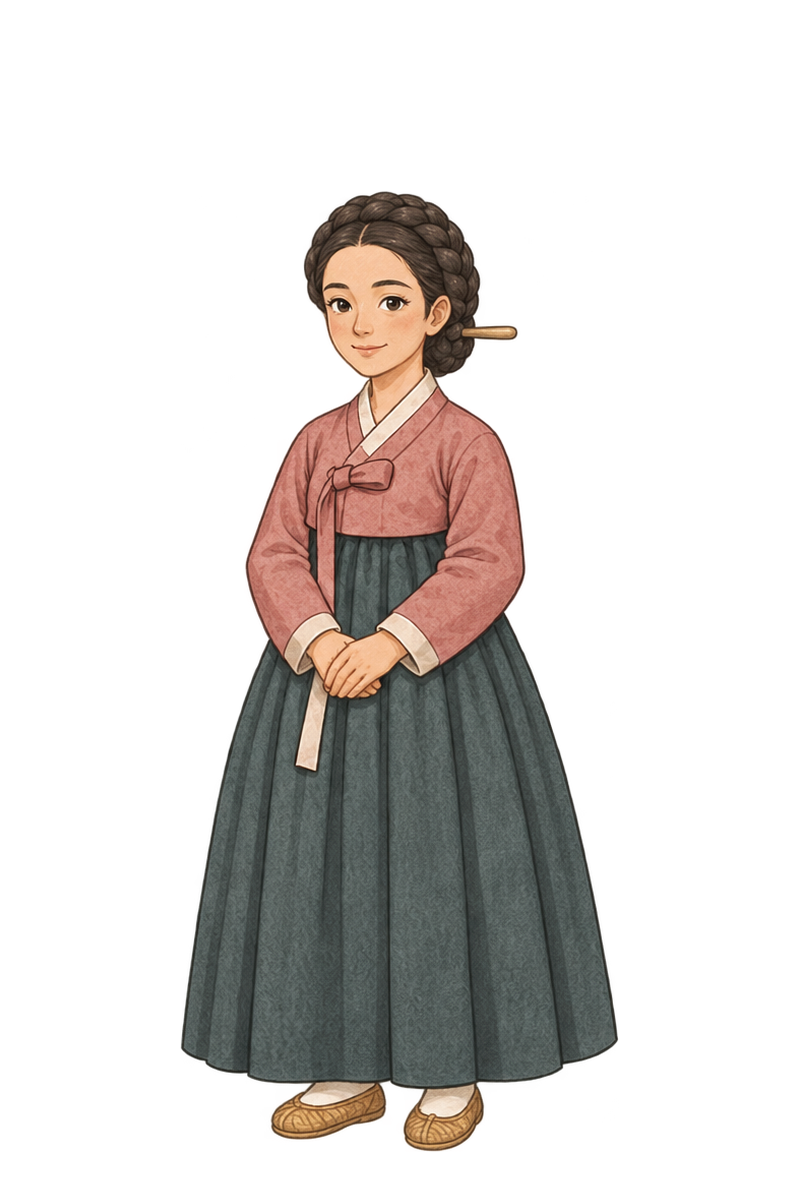
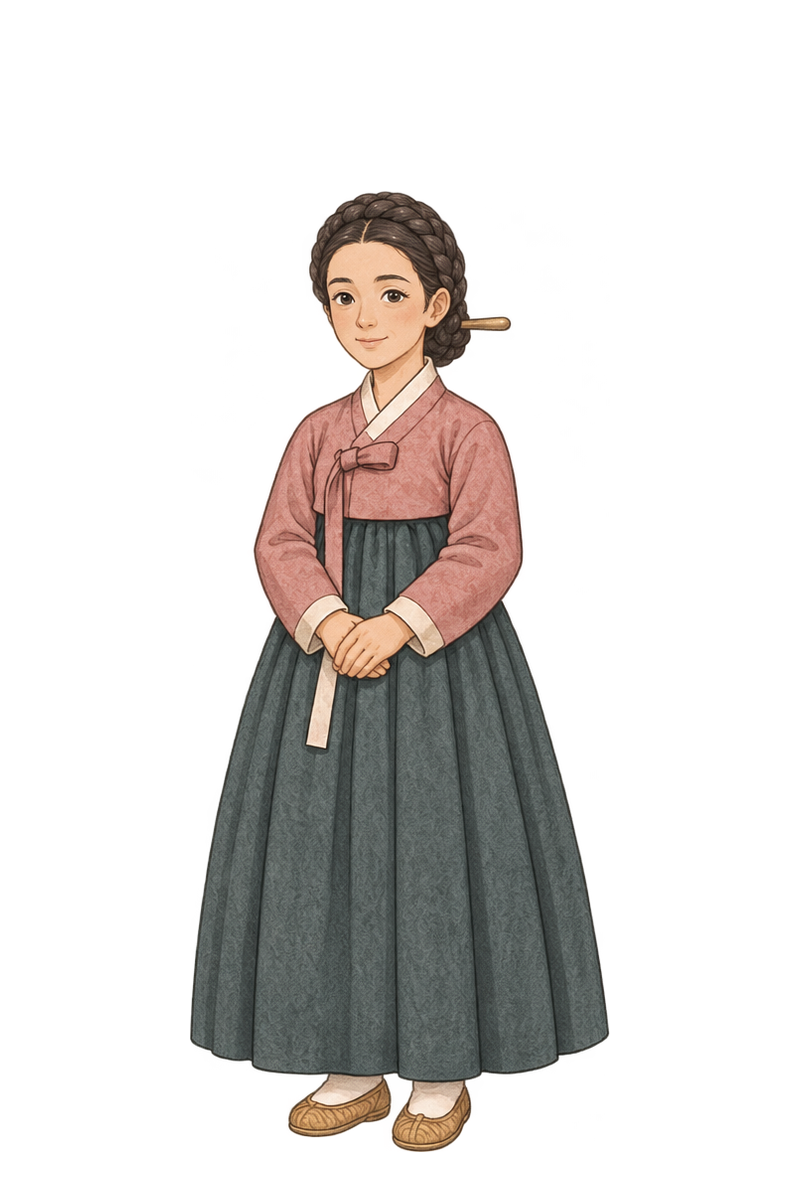
feat: use approved Bakssi portraits and finish Work handoff

Changed region(s): [[0.2188, 0.1542, 0.7812, 0.9867], [0.25, 0.6475, 0.2812, 0.7708], [0.3125, 0.6475, 0.3438, 0.6783]]

diff --git a/apps/web/lib/provided-worksheets.ts b/apps/web/lib/provided-worksheets.ts
@@ -190,6 +190,46 @@ const SHEETS:Record<BuiltinWorkId,Record<Format,readonly [Sheet,Sheet]>>={
    ]},
   ],
  },
+
+ bakssi:{
+  original:[
+   {focus:'story',title:'박씨전 줄거리와 인물',description:'박씨가 피화당에서 한 일이 전란 때 어떻게 이어졌는지 살펴봐요.',questions:[
+    '박씨는 왜 뒤뜰에 집을 마련해 달라고 했나요?',
+    '야윈 말을 돌본 일이 나중에 피란민들에게 어떤 도움이 되었나요?',
+    '박씨가 경고했을 때 조정은 어떻게 답했나요? 전쟁이 끝난 뒤 임금은 어떻게 했나요?',
+   ]},
+   {focus:'thinking',title:'박씨전 생각 넓히기',description:'혼례 날과 눈이 멎은 뒤 시백이 다른 행동을 하는 까닭을 생각해요.',questions:[
+    '혼례 날 시백은 어떻게 행동했나요? 전쟁 뒤의 시백과 비교해 보세요.',
+    '계화가 한 일 가운데 피화당 사람들에게 가장 중요했다고 생각하는 일은 무엇인가요? 까닭을 써 보세요.',
+    '임금이 박씨의 경고를 들었다면 어떤 행동부터 했으면 좋았을까요?',
+   ]},
+  ],
+  knolstory:[
+   {focus:'branch-choice',title:'박씨전 놀스토리 · 내가 고른 길',description:'박씨가 되어 내린 세 가지 결정과 한 가지 결과를 떠올려요.',questions:[
+    '말값으로 무엇부터 마련하기로 했나요? 그 일에 누가 손을 보탰나요?',
+    '박 처사가 찾아왔을 때 어떤 대답을 골랐나요? 이시백은 그 뒤 어떻게 찾아왔나요?',
+    '전란 속에서 누구에게 먼저 다가갔나요? 그 선택으로 달라진 결과 한 가지를 써 보세요.',
+   ]},
+   {focus:'branch-compare',title:'박씨전 놀스토리 · 두 갈래 비교',description:'허물에 대해 다른 대답을 한 두 갈래를 읽고 견주어 봐요.',questions:[
+    '허물을 벗는 길과 같은 얼굴로 사는 길에서 계화와 시백은 박씨를 어떻게 대했나요?',
+    '두 길에서 기홍대를 만난 일을 견주어 보세요. 어떤 단서가 기홍대의 정체를 드러냈나요?',
+    '내가 읽은 두 결말에서 피화당 밖의 사람들은 어떤 도움을 받았나요?',
+   ]},
+  ],
+  shortstory:[
+   {focus:'pictures',title:'박씨전 숏스토리 · 그림 읽기',description:'그림이 이어지는 쪽을 찾아 소품과 인물의 행동을 살펴봐요.',questions:[
+    '3쪽과 7쪽의 여물통과 쌀자루를 찾아보세요. 두 그림의 계절과 계화가 하는 일은 어떻게 달라졌나요?',
+    '8쪽에서 문 안과 문 밖은 어떤 색과 모습으로 그려졌나요?',
+    '5쪽 박씨의 헌 신과 마지막 쪽의 신을 견주어 보세요. 마지막에 박씨가 신발을 신지 않고 달려간 까닭은 무엇일까요?',
+   ]},
+   {focus:'rewrite',title:'박씨전 숏스토리 · 한 쪽 바꿔 쓰기',description:'‘문 하나를 사이에 두고’를 언니나 동생의 눈으로 다시 써요.',questions:[
+    '8쪽에서 이야기할 사람을 언니와 동생 중 하나로 골라 보세요.',
+    '고른 인물이 문 안에서 보고 들은 것, 하고 싶었던 일을 짧게 써 보세요.',
+    '내가 쓴 내용이 9쪽의 ‘길이 열렸어요’와 어떻게 이어지는지 설명해 보세요.',
+   ]},
+  ],
+ },
+
 };
 
 const FORMAT_ORDER:readonly Format[]=['original','knolstory','shortstory'];

diff --git a/tests/e2e/library-first-screen.spec.ts b/tests/e2e/library-first-screen.spec.ts
@@ -126,12 +126,12 @@ test('편집하기 on a built-in book asks for the edition in place and keeps th
  await page.keyboard.press('Escape');await expect(dialog).toHaveCount(0);
 });
 
-test('책 소개 lands on the four stories and returns to the library',async({page})=>{
+test('책 소개 lands on the provided stories and returns to the library',async({page})=>{
  await open(page,320,700);
  await page.getByRole('button',{name:'책 소개',exact:true}).click();
- const list=page.getByRole('region',{name:'놀스토리의 네 이야기'});
- await expect(list.getByRole('heading',{name:'놀스토리의 네 이야기'})).toBeFocused();
- await expect(list.getByRole('listitem')).toHaveCount(4);
+ const list=page.getByRole('region',{name:'놀스토리의 이야기'});
+ await expect(list.getByRole('heading',{name:'놀스토리의 이야기'})).toBeFocused();
+ await expect(list.getByRole('listitem')).toHaveCount(5);
  const box=(await list.boundingBox())!;expect(box.y).toBeLessThan(700);
  await list.getByRole('button',{name:'서재로 돌아가기',exact:true}).click();
  await expect(library(page)).toBeVisible();

diff --git a/tests/e2e/entry-cover.spec.ts b/tests/e2e/entry-cover.spec.ts
@@ -13,7 +13,7 @@ test('fresh browser entry introduces existing books and explicit navigation ente
  await expect(intro.locator('[data-intro-poster]')).toHaveCount(1);await expect(intro.getByRole('navigation',{name:'놀스토리 메인 메뉴'}).getByRole('button')).toHaveCount(2);
  await expect(page.getByTestId('story-runtime-frame')).toHaveCount(0);
  // A first visit shows the title screen alone; the four-story list belongs to the library's ‘책 소개’.
- await expect(page.getByRole('region',{name:'놀스토리의 네 이야기'})).toHaveCount(0);
+ await expect(page.getByRole('region',{name:'놀스토리의 이야기'})).toHaveCount(0);
  await page.getByRole('button',{name:'서재로 가기',exact:true}).click();
  await expect(page.getByRole('main',{name:'놀스토리 서재'})).toBeVisible();
  await page.goto('/');await expect(intro).toBeVisible();

diff --git a/scripts/prepare-bakssi-assets.py b/scripts/prepare-bakssi-assets.py
@@ -227,7 +227,7 @@ def check_emotions(rows):
             raise ValueError(f'{identity}: each expression must use a distinct reviewed image')
 
 
-def prepare(root=ROOT, check=False, complete=False, require_emotions=False):
+def prepare(root=ROOT, check=False, complete=False, require_emotions=False, replace_drafts=()):
     registry = root / REGISTRY
     catalog_path = registry / 'catalog.json'
     sizes_path = registry / 'background-sizes.json'
@@ -251,6 +251,17 @@ def prepare(root=ROOT, check=False, complete=False, require_emotions=False):
     prior = {row['id']: row for row in load(receipt_path)['assets']} if receipt_path.exists() else {}
     if not (set(prior_assets) | set(prior)).issubset(ids):
         raise ValueError('A registered Bakssi asset recipe disappeared.')
+    replacements = set(replace_drafts)
+    if replacements and (check or not replacements.issubset(prior_assets.keys() & prior.keys())):
+        raise ValueError('Draft replacement requires exact IDs already present in both registration files.')
+    for asset_id in replacements:
+        previous = prior[asset_id]
+        expected_output = PUBLIC / DELIVERY / (asset_id + '.webp')
+        output = root / expected_output
+        if (previous['output'] != expected_output.as_posix() or not output.is_file()
+                or digest(output.read_bytes()) != previous['outputSha256']
+                or prior_assets[asset_id]['revision'] != previous['outputSha256']):
+            raise ValueError(f'{asset_id}: prior output must match the registered draft')
     catalogue = []
     receipts = []
     files = {}
@@ -265,16 +276,16 @@ def prepare(root=ROOT, check=False, complete=False, require_emotions=False):
             if (complete and not optional_emotion) or asset_id in prior_assets or asset_id in prior:
                 raise ValueError(f'{asset_id}: source PNG missing')
             continue
-        if asset_id in prior and digest(source.read_bytes()) != prior[asset_id]['sourceSha256']:
+        if asset_id in prior and asset_id not in replacements and digest(source.read_bytes()) != prior[asset_id]['sourceSha256']:
             raise ValueError(f'{asset_id}: source changed; review and register a new versioned asset')
         asset, receipt, contents = prepare_one(root, entry, catalogue_by_id, prompt_evidence)
         catalogue_by_id[asset_id] = asset
-        if asset_id in prior_assets and prior_assets[asset_id]['revision'] != asset['revision']:
+        if asset_id in prior_assets and asset_id not in replacements and prior_assets[asset_id]['revision'] != asset['revision']:
             raise ValueError(f'{asset_id}: registered derivative changed; verify the source and encoder')
         catalogue.append(asset)
         receipts.append(receipt)
         output = root / receipt['output']
-        if output.is_file() and output.read_bytes() != contents:
+        if asset_id not in replacements and output.is_file() and output.read_bytes() != contents:
             raise ValueError(f'{asset_id}: output differs; recover exact asset bytes')
         files[output] = contents
     if not catalogue:
@@ -329,9 +340,12 @@ if __name__ == '__main__':
     parser.add_argument('--check', action='store_true')
     parser.add_argument('--complete', action='store_true', help='Require every planned base artwork.')
     parser.add_argument('--require-emotions', action='store_true', help='Require five distinct expressions for each identity.')
+    parser.add_argument('--replace-draft', action='append', default=[], metavar='ASSET_ID',
+                        help='Replace a reviewed asset on the unpublished production branch only.')
     args = parser.parse_args()
     try:
-        count = prepare(check=args.check, complete=args.complete, require_emotions=args.require_emotions)
+        count = prepare(check=args.check, complete=args.complete, require_emotions=args.require_emotions,
+                        replace_drafts=args.replace_draft)
     except (ValueError, OSError, KeyError) as error:
         raise SystemExit(str(error))
     print(f'Bakssi artwork: {count} registered assets.')

diff --git a/scripts/tests/test_bakssi_assets.py b/scripts/tests/test_bakssi_assets.py
@@ -107,3 +107,19 @@ class BakssiAssetsTest(unittest.TestCase):
         for check in [False, True]:
             with self.assertRaisesRegex(ValueError, 'source changed'):
                 self.pipeline.prepare(self.root, check=check)
+
+    def test_replaces_only_requested_draft_after_checking_the_prior_output(self):
+        self.record_recipe()
+        self.draw_sources()
+        self.pipeline.prepare(self.root)
+        source = self.art / (self.page_id + '.png')
+        output = self.root / 'apps/web/public/assets/bakssi-v1' / (self.page_id + '.webp')
+        prior = output.read_bytes()
+        Image.new('RGB', (512, 288), 'green').save(source)
+        output.write_bytes(b'corrupt derivative')
+        with self.assertRaisesRegex(ValueError, 'prior output'):
+            self.pipeline.prepare(self.root, replace_drafts=[self.page_id])
+        output.write_bytes(prior)
+        self.pipeline.prepare(self.root, replace_drafts=[self.page_id])
+        self.assertNotEqual(output.read_bytes(), prior)
+        self.assertEqual(self.pipeline.prepare(self.root, check=True), 3)

diff --git a/docs/reference/bakssi/art-production.md b/docs/reference/bakssi/art-production.md
@@ -4,7 +4,7 @@
 
 - 선녀와 나무꾼 2쪽에서 밝은 햇빛, 숲과 산의 깊이, 옹고집전 2쪽에서 기와·눈·나무 문, 흥부와 놀부 3쪽에서 얼굴·손·옷감·종이에 번진 색을 본다. 저장소 Asset ID는 각각 `seonnyeo.scene.shortstory-classic-02`, `onggojib.scene.shortstory-classic-02`, `heungbu.scene.shortstory-classic-03`이다. 준비된 공용 파일 위치는 `apps/web/public/assets/legacy-18da4fc/<id>.webp`다. 캐릭터 키와 비례는 `heungbu.character.wife-heungbu`, `heungbu.character.heungbu-young` 및 레시피별 기준을 확인한다. 참조 인물과 장면을 복제하지 않고 색과 표현 방식, 치수 기준만 가져온다.
 - 세밀한 갈색 먹선, 한지에 스민 수채·과슈, 조선 복식의 넓은 옷주름, 마음이 보이는 손과 눈. 색이 필요한 곳은 겨울 밤의 청보라와 등불의 옅은 황금빛처럼 장소의 이유로 정한다. 사진, 3D, 현대 물건, 생성 이미지 안의 글자와 워터마크는 피한다.
-- 허물 전후의 박씨는 **크고 분명한 외형 차이**가 기준이다. 전에는 넓고 삐뚤어진 무거운 턱, 서로 다른 높이의 두꺼운 눈썹과 작은 눈, 넓적하고 큰 코, 크게 비대칭인 입으로 단번에 못생겨 보이게 한다. 허물 뒤에는 갸름하고 대칭이 또렷한 얼굴, 고른 눈썹, 맑은 큰 눈과 작은 곧은 코로 확연히 아름다운 인상을 준다. 표정과 조명만 바꾸면 다시 만든다. 전후 모두 차분하고 지혜로운 사람으로 연기한다.
+- 2026-11-28 사용자가 고른 [박씨 얼굴 기준](bakssi-face-comparison.jpg)을 그대로 따른다. 허물 전에는 넓고 살짝 비대칭인 턱, 두꺼운 눈썹과 무거운 눈꺼풀을 유지한다. 허물 뒤에는 조금 더 가는 턱선과 또렷한 눈, 정돈된 눈썹과 이목구비로 바뀐다. 얼굴의 대비와 인상은 기준 그림에서 정해졌으므로 코·입·턱을 더 부풀리거나 새 얼굴로 해석하지 않는다. 변신 전후 모두 차분하고 지혜로운 사람으로 연기한다.
 - 허물 전후는 옅은 나무 비녀와 낮게 땋아 올린 검은 쪽머리, 흰 동정이 있는 말린 장밋빛 저고리와 짙은 청록 치마, 같은 키·어깨·몸통·손으로 연결한다. 혼례에는 같은 허물 전 얼굴에 붉은 원삼과 족두리를 더한다. 박씨 뒤의 배경과 주변 조명을 같게 두고 얼굴만 비교한다.
 - 계화는 황토빛 저고리, 붉은 흙빛 치마, 긴 댕기머리와 살구빛 끝. 시백은 쪽빛 도포와 갓, 혼례는 같은 눈·턱을 유지한 청색 관복과 사모. 어린 동생은 겨자색 노란 댕기와 쑥빛 저고리, 언니는 청회색 저고리다. 그림책과 원작·놀스토리에서 이 조합을 이어 쓴다.
 - 피화당은 정면에서 볼 때 왼쪽 감나무, 뒤쪽의 낮은 마루와 기와집, 오른쪽 초가 창고와 여물통, 손잡이를 낮춘 문이 반복된다. 낮 배경 하나를 같은 구도의 밤·비·눈·봄으로 바꿔서 쓰고, 같은 장면의 있던 문이 사라지거나 지붕·창고 위치가 뒤집히면 다시 맞춘다.
@@ -23,11 +23,12 @@
 1. 파일의 쓰임과 그림이 일치하는지 본다. 그림책과 표지는 인물 포함 삽화다. 재생 배경은 별도의 인물을 올릴 자리를 확보한다. 이미지 속 사람, 글씨, 잘린 발이나 그림자가 잘못 들어간 파일은 수정한다.
 2. 눈에 잘 띄는 인물 2~3명과 써야 할 장소의 기준 그림을 먼저 승인한다. 승인본과 같은 인물은 한 번에 표정이나 행동 한 가지를 바꾸면서 만든다. 접지 시트를 쓴 경우 잘려 나간 신발·갓·이웃 칸의 투명 잔상이 없는지 본 후 PNG를 분리한다.
 3. 파일을 `assets/source/bakssi/<asset-id>.png`에 둔다. 레시피와 기존 등록 ID가 맞는지 확인하고 `python3 scripts/prepare-bakssi-assets.py`를 실행한다. 결과는 `apps/web/public/assets/bakssi-v1/` 및 등록표에 들어간다. 장면과 해시·차원을 대조한 뒤 원본·WebP·등록 정보를 함께 커밋한다.
-4. 파생 그림에서 참조한 Asset ID와 생성 도구, 도구에 준 문장, 결과에서 어떤 장면을 승인했는지 이 문서에 덧붙인다. 공개 이야기에서 쓸 수 있는지와 원본 그림의 독립 배포 여부를 각각 본다. 로컬 변수·생성 캐시·개인 사진은 저장소에 넣지 않는다.
+4. 공개 전 제작 브랜치의 이미 등록한 시안을 바꿀 때는 기존 WebP와 등록 기록을 먼저 보존하고 새 PNG를 같은 경로에 넣는다. 예를 들어 `python3 scripts/prepare-bakssi-assets.py --replace-draft bakssi-shortstory-page-01 --replace-draft bakssi-shortstory-page-03`으로 검토한 두 ID만 바꾼다. 등록기는 이전 WebP 해시가 등록 기록과 일치할 때만 변경한다. 공개한 자산은 프로젝트의 자산 버전 절차를 따른다.
+5. 파생 그림에서 참조한 Asset ID와 생성 도구, 도구에 준 문장, 결과에서 어떤 장면을 승인했는지 이 문서에 덧붙인다. 공개 이야기에서 쓸 수 있는지와 원본 그림의 독립 배포 여부를 각각 본다. 로컬 변수·생성 캐시·개인 사진은 저장소에 넣지 않는다.
 
 ## 인물·표지 생성에 사용한 프롬프트
 
-다음은 내장 ImageGen에 준 프롬프트다. 용도가 겹치는 박씨 후보는 더 큰 허물 전후 차이를 검토하기 위한 시안을 포함한다. 승인한 원본은 레시피와 같은 이름으로 저장한다.
+다음은 내장 ImageGen에 준 프롬프트다. 박씨의 승인된 전신 세 장은 사용자 선택과 픽셀을 대조한 `bakssi-strong-contrast` 원본에서 분리했다. 아래 프롬프트 가운데 박씨의 후속 생성에는 승인 PNG를 첫 번째 이미지 참조로 사용한다.
 
 ### cast-main
 
@@ -105,10 +106,4 @@ Use case illustration-story. Two-by-two expression atlas for an existing full-bo
 
 ```text
 Create one polished 3-column comparison sheet, with three separate transparent full-body sprites for Korean Joseon tale Lady Bak. Use attached images for exact costume, age, body type, straight white collar, pale horizontal wooden hairpin through dark low braided bun, and soft textured watercolor gouache with controlled sepia linework, NOT their facial features. All three should have exactly same height and slim average adult build. LEFT and RIGHT are SAME noticeably unattractive enchantment face: wide heavy slightly crooked jaw, high projecting cheekbones with distinctly uneven cheeks, broad uneven bulbous nose, heavy low brows at visibly different heights, long upper lip and understated facial texture, small eyes, reassuring level calm gaze, human and dignified, visually striking even at thumbnail size and never grotesque, no injury or disease. CENTER is the revealed version, unmistakably very pretty: elegantly tapered oval, refined smaller even nose, gently arched dark brows and large balanced dark almond eyes, soft peach cheeks, poised and warm. Make the structural contrast clear, not simply a change in smile, lighting or cosmetics. LEFT and CENTER exact same dusty-rose jeogori, dark desaturated teal chima, pin and hairstyle; RIGHT matches LEFT facial features and wears muted crimson Joseon wonsam and a small jokduri as in second attached sprite. Simple standing neutral, quiet hands, each sprite wholly inside its third, show soles and headwear, ample space between them, no labels/text/grid/floor/shadows. Transparent alpha all around sprite characters. Landscape wide 3:2. Keep historical details natural.
-```
-
-### bakssi-dramatic-contrast
-
-```text
-Character-design atlas of a Korean adult woman's very real dramatic magical transformation for a Joseon illustrated folktale. Render three transparent full-body figures in one row, evenly centered on their thirds, all shoetips and headwear well away from edges. Left: Lady Bak with a **decidedly ugly, visually striking folktale face**. Give her an oversized heavy square jaw, broad protruding uneven cheeks, prominent flat bulbous nose that interrupts the facial silhouette, short and long mismatched dark eyebrows visibly low above very small eyes, and a distinctly wide lopsided mouth. This face should be plain to the point of startling even when seen as a small game sprite. Make it bold and unmistakable, human, intelligent, neutral expression. Draw it as a bespoke Korean folklore face with the same painterly finish as existing series. Middle: very beautiful version of the SAME woman, with very obvious tapered oval lissome face, balanced graceful brows, proportionate narrow nose and large bright almond eyes, the same calm thoughtful expression. Right: precisely the left character's very ugly face again, with crimson wedding wonsam and small jokduri headpiece. Left and middle exactly the same black low braided bun with pale wooden pin, rose jeogori and deep desaturated teal chima, white collar, straw shoes and adult body size. All three keep the same eye color, simple natural hands, approximate 6 heads high, subtle clean textured gouache watercolor and fine sepia linework from reference 3. Reference 1 is for established clothing, body and hair; reference 2 is only wedding wardrobe. No lettering, props, floor, frame, glow, grid, or shadows. True transparent background, landscape. The difference between the left and middle should be far more distinct than ordinary realistic face variation.
 ```

diff --git a/docs/reference/bakssi/WORK-HANDOFF.md b/docs/reference/bakssi/WORK-HANDOFF.md
@@ -4,7 +4,7 @@ GitHub 저장소는 `LUCKYBRIDGE/new-knolstory`이고 인수인계 브랜치는 
 
 > **Work에 처음 줄 요청**
 >
-> `LUCKYBRIDGE/new-knolstory`의 `codex/bakssi-work`에서 `docs/reference/bakssi/WORK-HANDOFF.md`와 `.agents/skills/bakssi-production/SKILL.md`를 읽고 박씨전을 완성해 줘. 먼저 박씨 허물 전후 그림의 차이를 충분히 크게 만들고, 이미 제작된 원본을 목록과 대조해 등록해 줘. 남은 삽화·배경·표정을 같은 화풍과 인물 기준으로 채워 줘. 실제 서재에서 원작·놀스토리·숏스토리를 확인하고 작업과 검증 결과를 브랜치에 남겨 줘.
+> `LUCKYBRIDGE/new-knolstory`의 `codex/bakssi-work`에서 `docs/reference/bakssi/WORK-HANDOFF.md`와 `.agents/skills/bakssi-production/SKILL.md`를 읽고 박씨전을 완성해 줘. 먼저 사용자가 고른 박씨의 허물 전후 기준 그림이 기존 시안과 새 그림에 이어지도록 하고, 이미 제작된 원본을 목록과 대조해 등록해 줘. 남은 삽화·배경·표정을 같은 화풍과 인물 기준으로 채워 줘. 실제 서재에서 원작·놀스토리·숏스토리를 확인하고 작업과 검증 결과를 브랜치에 남겨 줘.
 
 ## GitHub에 저장된 작업 상태
 
@@ -13,8 +13,8 @@ GitHub 저장소는 `LUCKYBRIDGE/new-knolstory`이고 인수인계 브랜치는 
 - 새 원고와 실제 앱 진입 코드, 표지·그림책·무대·인물 PNG/WebP, 자산 해시, 검증 코드가 체크인되어 있다. 미등록된 쪽에는 제작 중 미리보기에서 글이 먼저 표시된다. 완성 검사는 열 쪽 모두의 등록을 요구한다.
 - 이번 체크포인트는 **57개 등록**이다. 인물 및 표정 44개, 재생 배경 10개, 표지 1개, 그림책 내지 2개다. 정확한 목록은 원본 폴더의 [등록 영수증](../../../assets/source/bakssi/generation.json)에 있다.
 - 아직 필요한 그림책 내지는 `bakssi-shortstory-page-02`, `bakssi-shortstory-page-04`, `bakssi-shortstory-page-05`, `bakssi-shortstory-page-06`, `bakssi-shortstory-page-07`, `bakssi-shortstory-page-08`, `bakssi-shortstory-page-09`, `bakssi-shortstory-page-10`이다.
-- 아직 필요한 재생 배경는 `bakssi-stage-courtyard-night`, `bakssi-stage-stable-day`, `bakssi-stage-pottery-day`, `bakssi-stage-court-day`, `bakssi-stage-courtyard-rain`, `bakssi-stage-courtyard-snow`, `bakssi-stage-well-snow`, `bakssi-stage-courtyard-spring`이다.
-- 기본 그림 이외의 표정 추가, 숏스토리와 등록 인물의 얼굴 비교, 최종 공용 미디어와 실제 Ren’Py 전 경로 검증은 남아 있다.
+- 아직 필요한 재생 배경은 `bakssi-stage-courtyard-night`, `bakssi-stage-stable-day`, `bakssi-stage-pottery-day`, `bakssi-stage-court-day`, `bakssi-stage-courtyard-rain`, `bakssi-stage-courtyard-snow`, `bakssi-stage-well-snow`, `bakssi-stage-courtyard-spring`이다.
+- 기본 그림 이외의 표정 추가, 숏스토리와 등록 인물의 얼굴 비교, 최종 공용 미디어와 실제 Ren’Py 전 경로 검증은 남아 있다. 이 체크포인트에서 원고 재생성 검사, 분기 계산, 등록 자산 해시, 투명 인물 44개 규격, Web·호환 모듈 타입 검사를 확인했다.
 
 ## 이어받은 파일
 
@@ -23,11 +23,11 @@ GitHub 저장소는 `LUCKYBRIDGE/new-knolstory`이고 인수인계 브랜치는 
 | [원작 읽기](박씨전_원작.md), [놀스토리](박씨전_놀스토리.md), [숏스토리](박씨전_숏스토리.md) | 원작 91컷, 놀스토리 415개 고유 컷·8개 경로·4개 결말, 숏스토리 표지와 10쪽. 문장은 이 파일에서 편집하고 아래 생성기로 앱 원고를 갱신한다. |
 | [원고 생성기](../../../scripts/prepare-bakssi-manuscripts.py), [읽기 데이터](../../../packages/compatibility/src/bakssi-stories.ts), [무대 배정](../../../packages/compatibility/src/bakssi-staging.ts) | Stage의 대사와 인물·동작·배경을 검수한다. 내보내는 작품의 ID는 원작 `classic-bakssi-tale`, 놀스토리 `bakssi-knolstory`, 그림책 작품 키는 `bakssi`다. |
 | [자산 레시피](../../../assets/source/bakssi/recipe.json), [자산 등록기](../../../scripts/prepare-bakssi-assets.py) | PNG와 만든 WebP를 대조하고, 기존 그림 신규 등록과 빠진 자산 제작을 진행한다. 레시피는 예정 목록, `generation.json`은 실제 등록 목록이다. |
-| [서재 묶음](../../../apps/web/lib/builtin-works.ts), [그림책 제공판](../../../packages/compatibility/src/shortstory-originals.ts), [재생 E2E](../../../tests/e2e/bakssi-runtime.spec.ts) | 로컬 서재에서 각 판의 표지·첫 컷·마지막 컷을 확인한다. 박씨전 학급 미션의 작품 키는 기존 SQL 이력을 유지하는 추가 마이그레이션을 사용한다. |
+| [서재 묶음](../../../apps/web/lib/builtin-works.ts), [그림책 제공판](../../../packages/compatibility/src/shortstory-originals.ts), [재생 E2E](../../../tests/e2e/bakssi-runtime.spec.ts) | 로컬 서재에서 각 판의 표지·첫 컷·마지막 컷을 확인한다. 원작·놀스토리·숏스토리용 독후 활동지는 각각 두 장이다. 박씨전 학급 미션의 작품 키는 기존 SQL 이력을 유지하는 추가 마이그레이션을 사용한다. |
 
 ## 우선순위
 
-1. **박씨의 허물 전후 차이를 책과 재생 화면까지 유지한다.** 사용자는 허물 전 박씨를 실제로 눈에 띄게 못생기게, 허물 뒤를 확실히 예쁘게 그리기를 요청했다. 이목구비를 구체적으로 비교하고 혼례복과 같은 얼굴 갈래에 반영한다. 연출에서 외모로 사람을 판단한 책임은 시백에게 있다.
+1. **박씨의 허물 전후 차이를 책과 재생 화면까지 유지한다.** 비교 시안 중 사용자가 마지막에 고른 [박씨 얼굴 기준](bakssi-face-comparison.jpg)을 사용한다. 얼굴을 더 과장하지 않고 승인 PNG를 첫 번째 참조로 쓴다. 평상복과 혼례복, 원작과 놀스토리 B에서 허물 전 얼굴이 같은 사람으로 이어져야 한다. 연출에서 외모로 사람을 판단한 책임은 시백에게 있다.
 2. 등록 목록과 도착한 그림을 비교한다. 완성된 표지와 PNG는 이 브랜치에서 바로 사용한다. 미등록 원본이나 다른 세션 결과는 파일의 출처를 확인한 뒤 이 브랜치의 원본 폴더로 가져온다. 개인 다운로드나 로컬 생성 경로에 의존하는 작품 파일은 만들지 않는다.
 3. 빠진 숏스토리 쪽, 피화당의 계절·시간 배경, 빠진 등장인물과 표정을 [그림 기준](art-production.md) 순서대로 채운다. 등록 레시피상 기본 자산 외에 인물마다 일상·기쁨·분노·슬픔·웃음의 구별되는 그림을 확인한다. 허물 전과 후의 표정을 잘못 섞지 않는다. 투명 여백, 발 기준선, 같은 인물의 키, 그림책의 페이지별 핵심 행동을 검수한다.
 4. 원작과 놀스토리에서 배경, 등장인물, 표정, 소품과 소리의 타이밍을 확인한다. 특히 원작과 A 갈래의 허물 벗는 컷, B 갈래에서 얼굴이 계속 같은 점, 피화당 눈보라·움직이는 등불, 국자와 물동이가 각 결말에서 이어지는 점을 본다.
